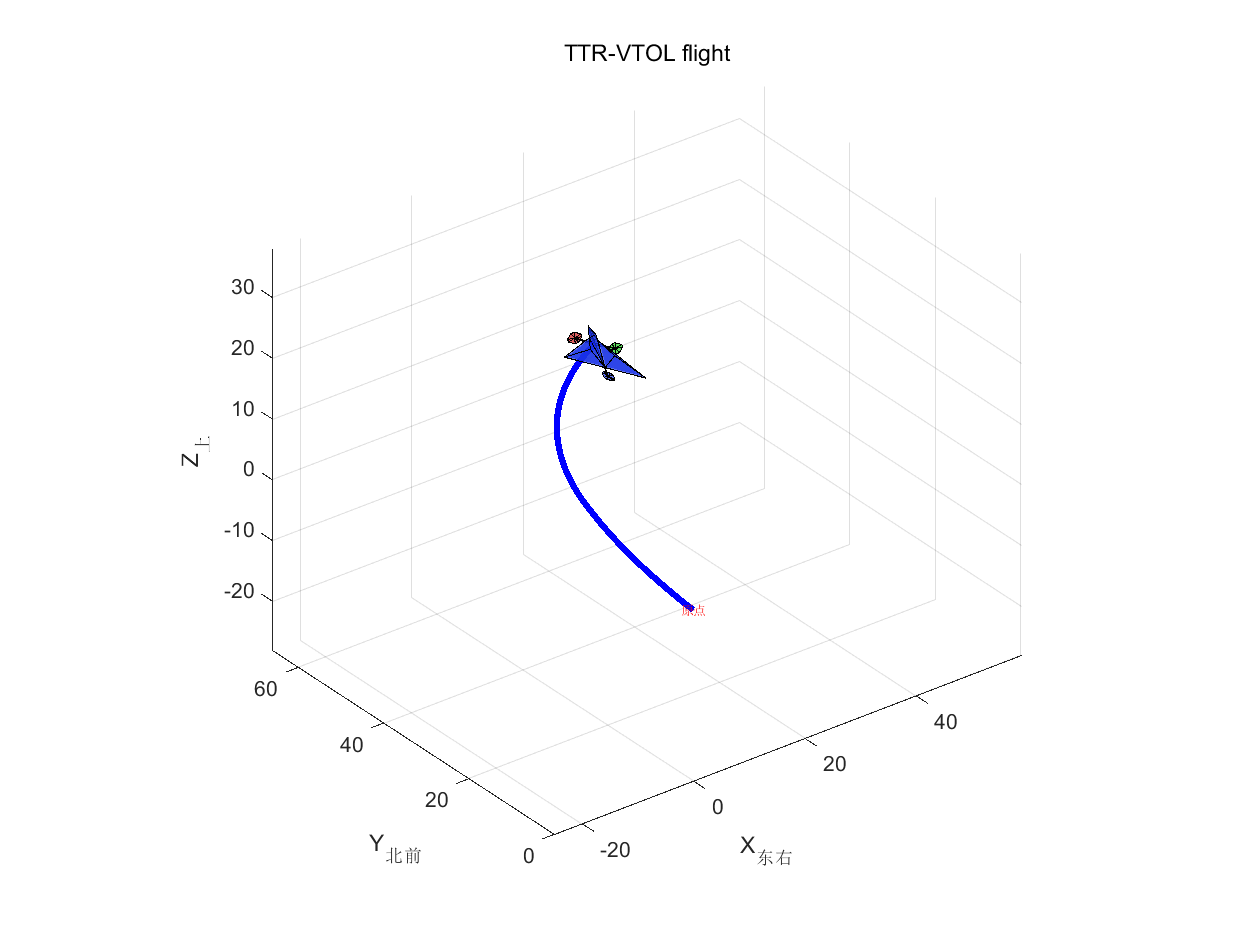
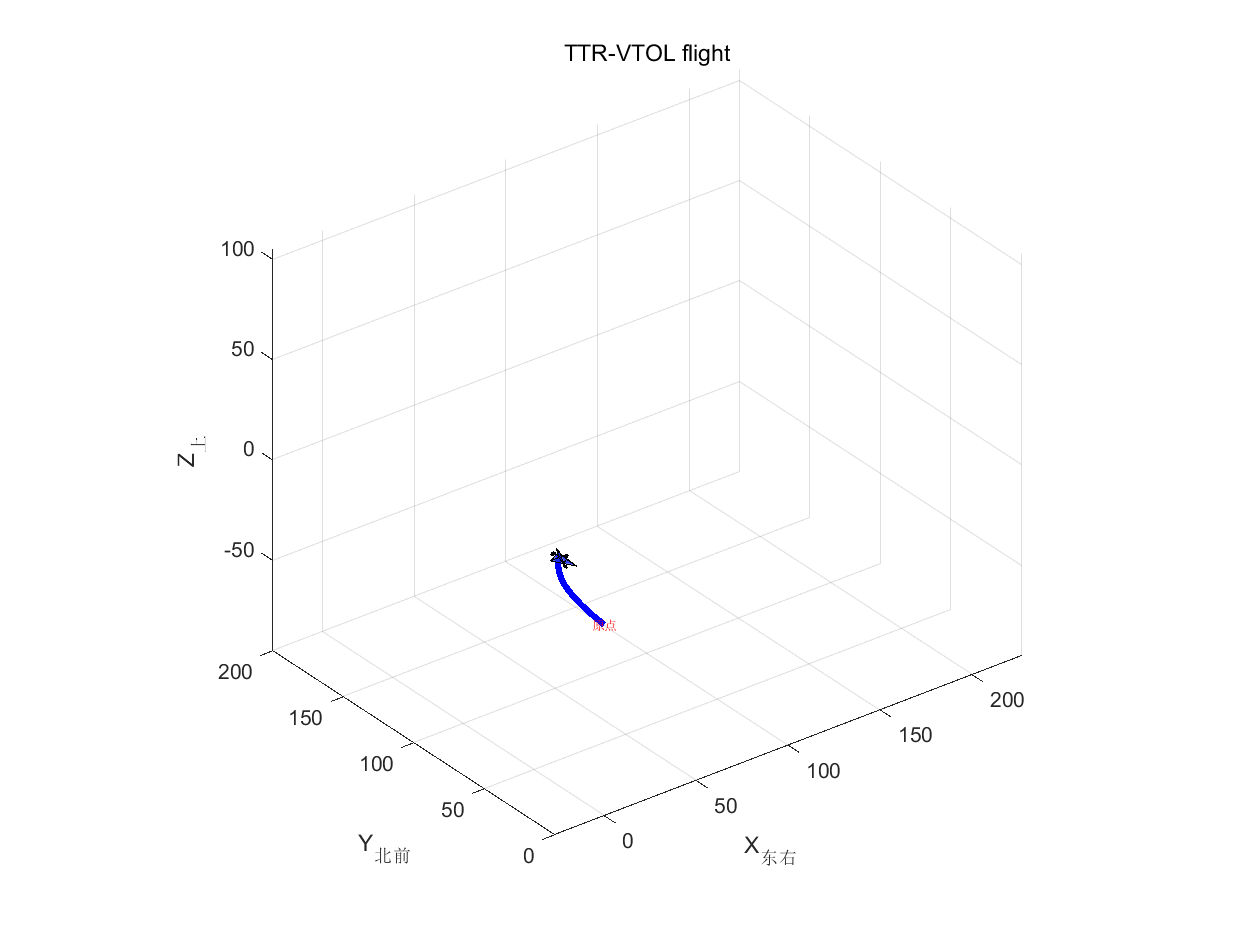
完整测试版-单机固定翼态

diff --git a/6_DOF_formation/3-D+tilt_trirotor+Control/Copy_of_TTR_sim_init/controller/cruise_controller_A.m b/6_DOF_formation/3-D+tilt_trirotor+Control/Copy_of_TTR_sim_init/controller/cruise_controller_A.m
@@ -283,9 +283,10 @@ end
     s = [state.pos(1),state.pos(2),state.pos(3),state.vel(1),state.vel(2),state.vel(3),0,0,0,0,state.omega(1),state.omega(2),state.omega(3),];
     [force, moment] = all_forces_moments(s, command, params);
     moment(3) = Mz_cmd;
-
+    p_cmd = controller.roll_rate_from_roll.update(roll_cmd, state.rot(1));
+    q_cmd = controller.pitch_rate_from_pitch.update(pitch_cmd, state.rot(2));
     copter_cmd = [force; moment]; % 
-    des_from_ctrl = [Va, des_state.Va, beta, roll_cmd, pitch_cmd, yaw_cmd, 0, 0, r_cmd, moment(1), moment(2), moment(3)];
+    des_from_ctrl = [Va, des_state.Va, beta, roll_cmd, pitch_cmd, yaw_cmd, p_cmd, q_cmd, r_cmd, moment(1), moment(2), moment(3)];
 
     end
     % disp(mode);

diff --git a/6_DOF_formation/3-D+tilt_trirotor+Control/Copy_of_TTR_sim_init/traj/traj_vtol_cruise.m b/6_DOF_formation/3-D+tilt_trirotor+Control/Copy_of_TTR_sim_init/traj/traj_vtol_cruise.m
@@ -16,7 +16,7 @@ function [ des_state ] = traj_vtol_cruise(t, state)
         % des_state.pos = [2*t; 2*t; 10];
          des_state.Va = 15;
          % des_state.pos = [20; 20+des_state.Va * t; 10];
-         des_state.pos = [10; 50; 10];
+         des_state.pos = [200; 200; 10];
         
         % des_state.yaw = atan2(des_state.pos(2) - 0, des_state.pos(1) - 20);
         des_state.mode = 3;   

diff --git a/6_DOF_formation/3-D+tilt_trirotor+Control/Copy_of_TTR_sim_init/utils/sys_params.m b/6_DOF_formation/3-D+tilt_trirotor+Control/Copy_of_TTR_sim_init/utils/sys_params.m
@@ -426,7 +426,7 @@ params.delta_ki = 0.01;
 params.delta_kd = 0.3;
 
 % ----------pitch loop-------------
-params.pitch_cruise_kp = 2.0;
+params.pitch_cruise_kp = 8.0;
 params.pitch_cruise_kd = 0.4;
 
 % ----------altitude loop-------------
